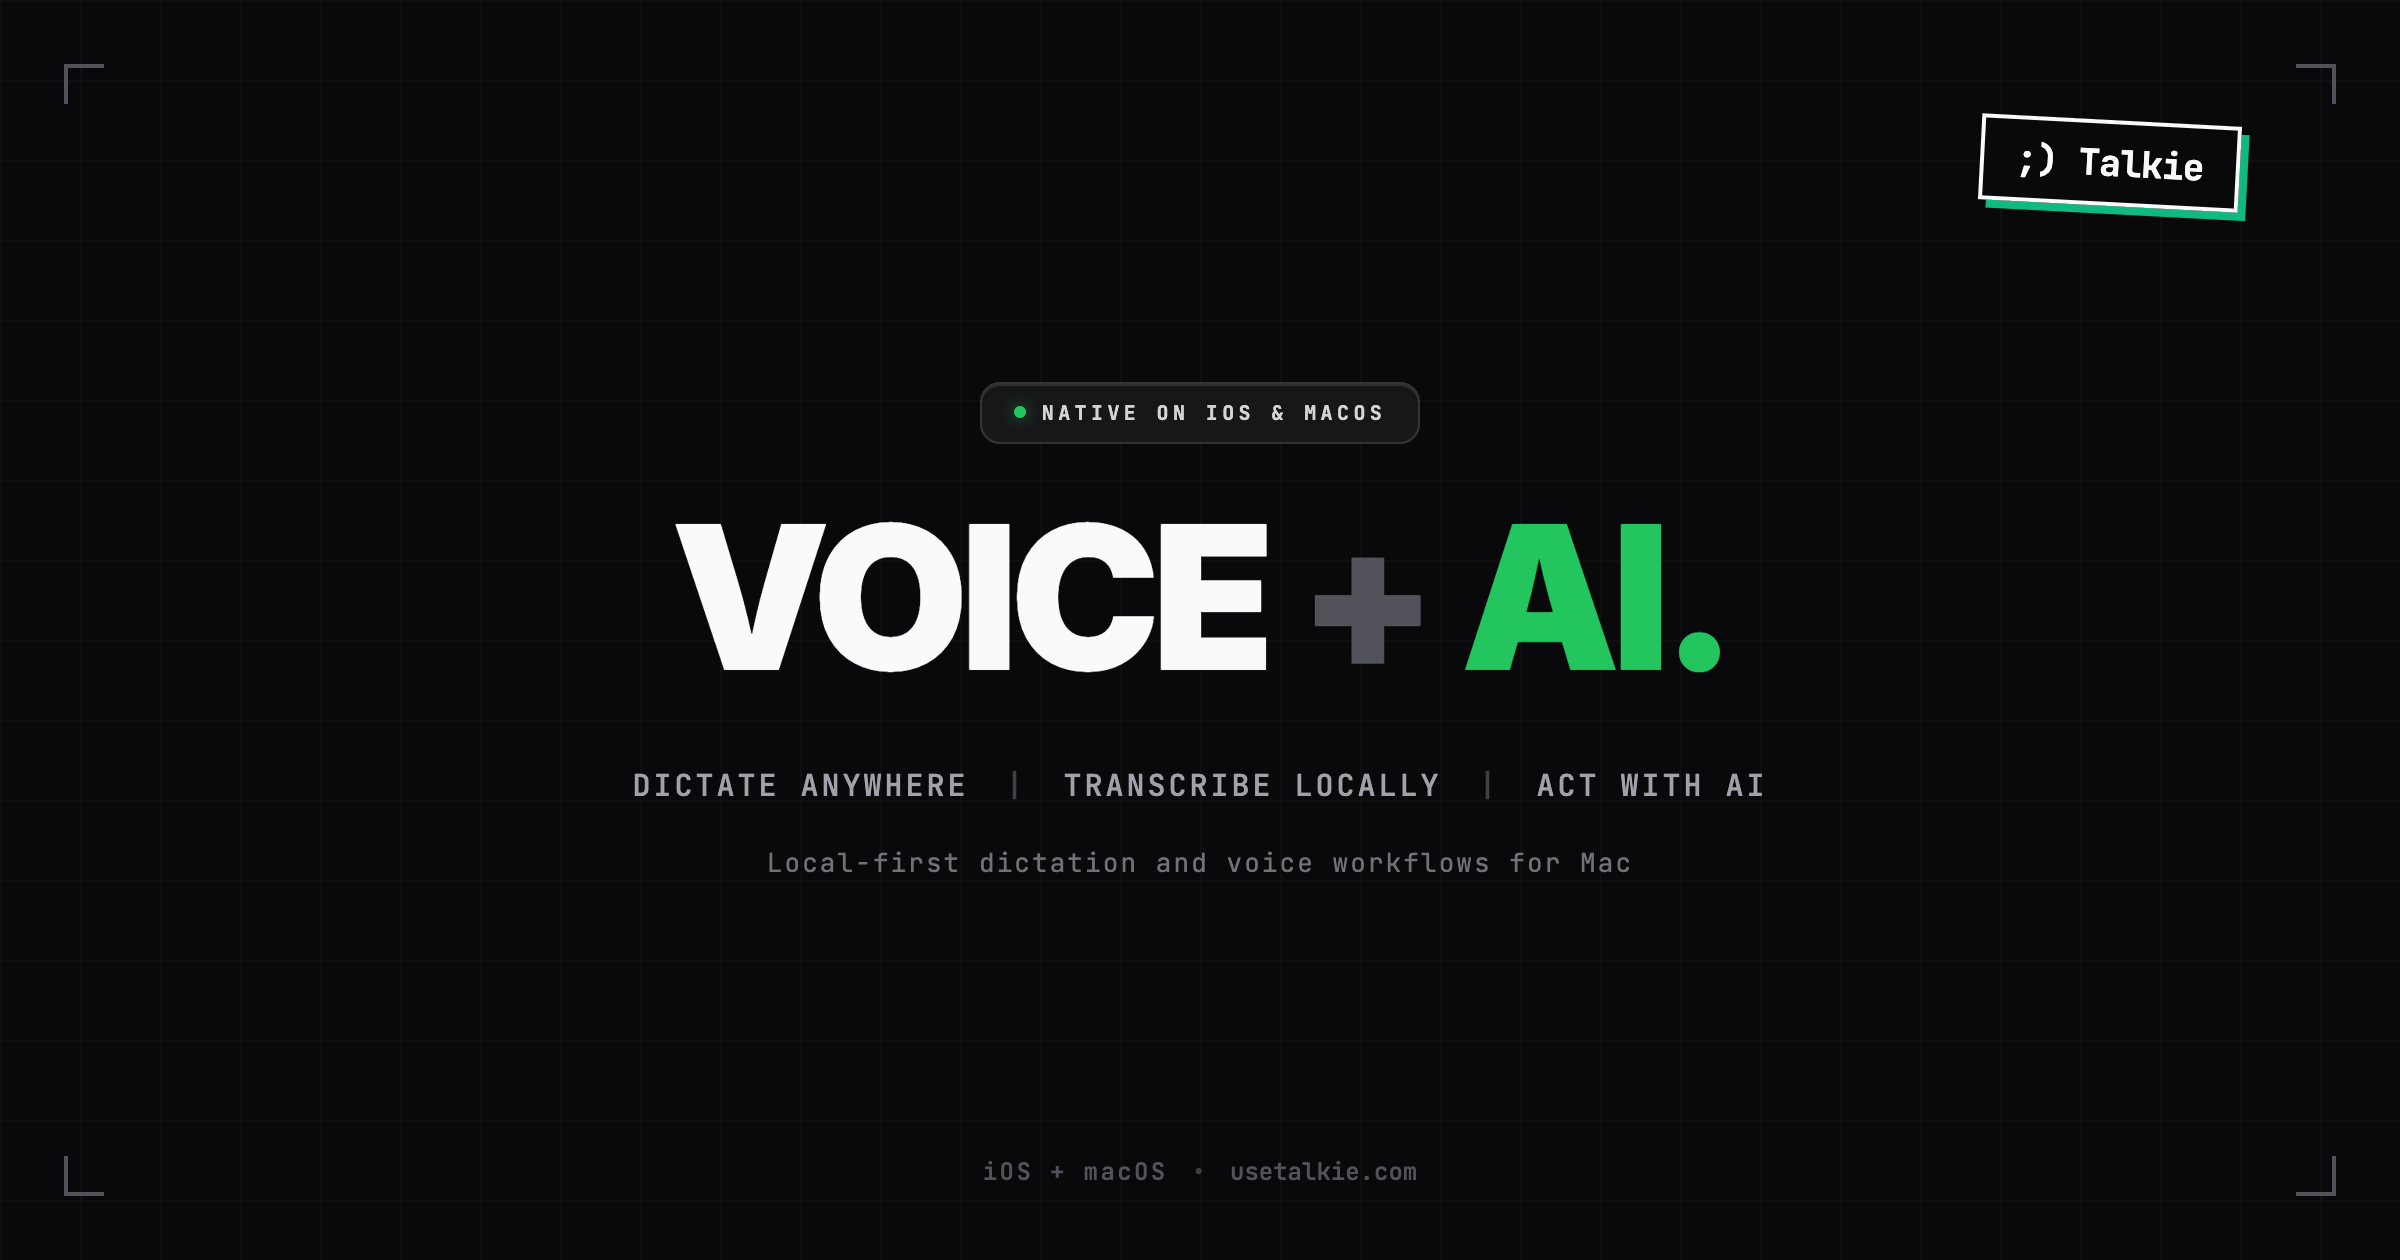
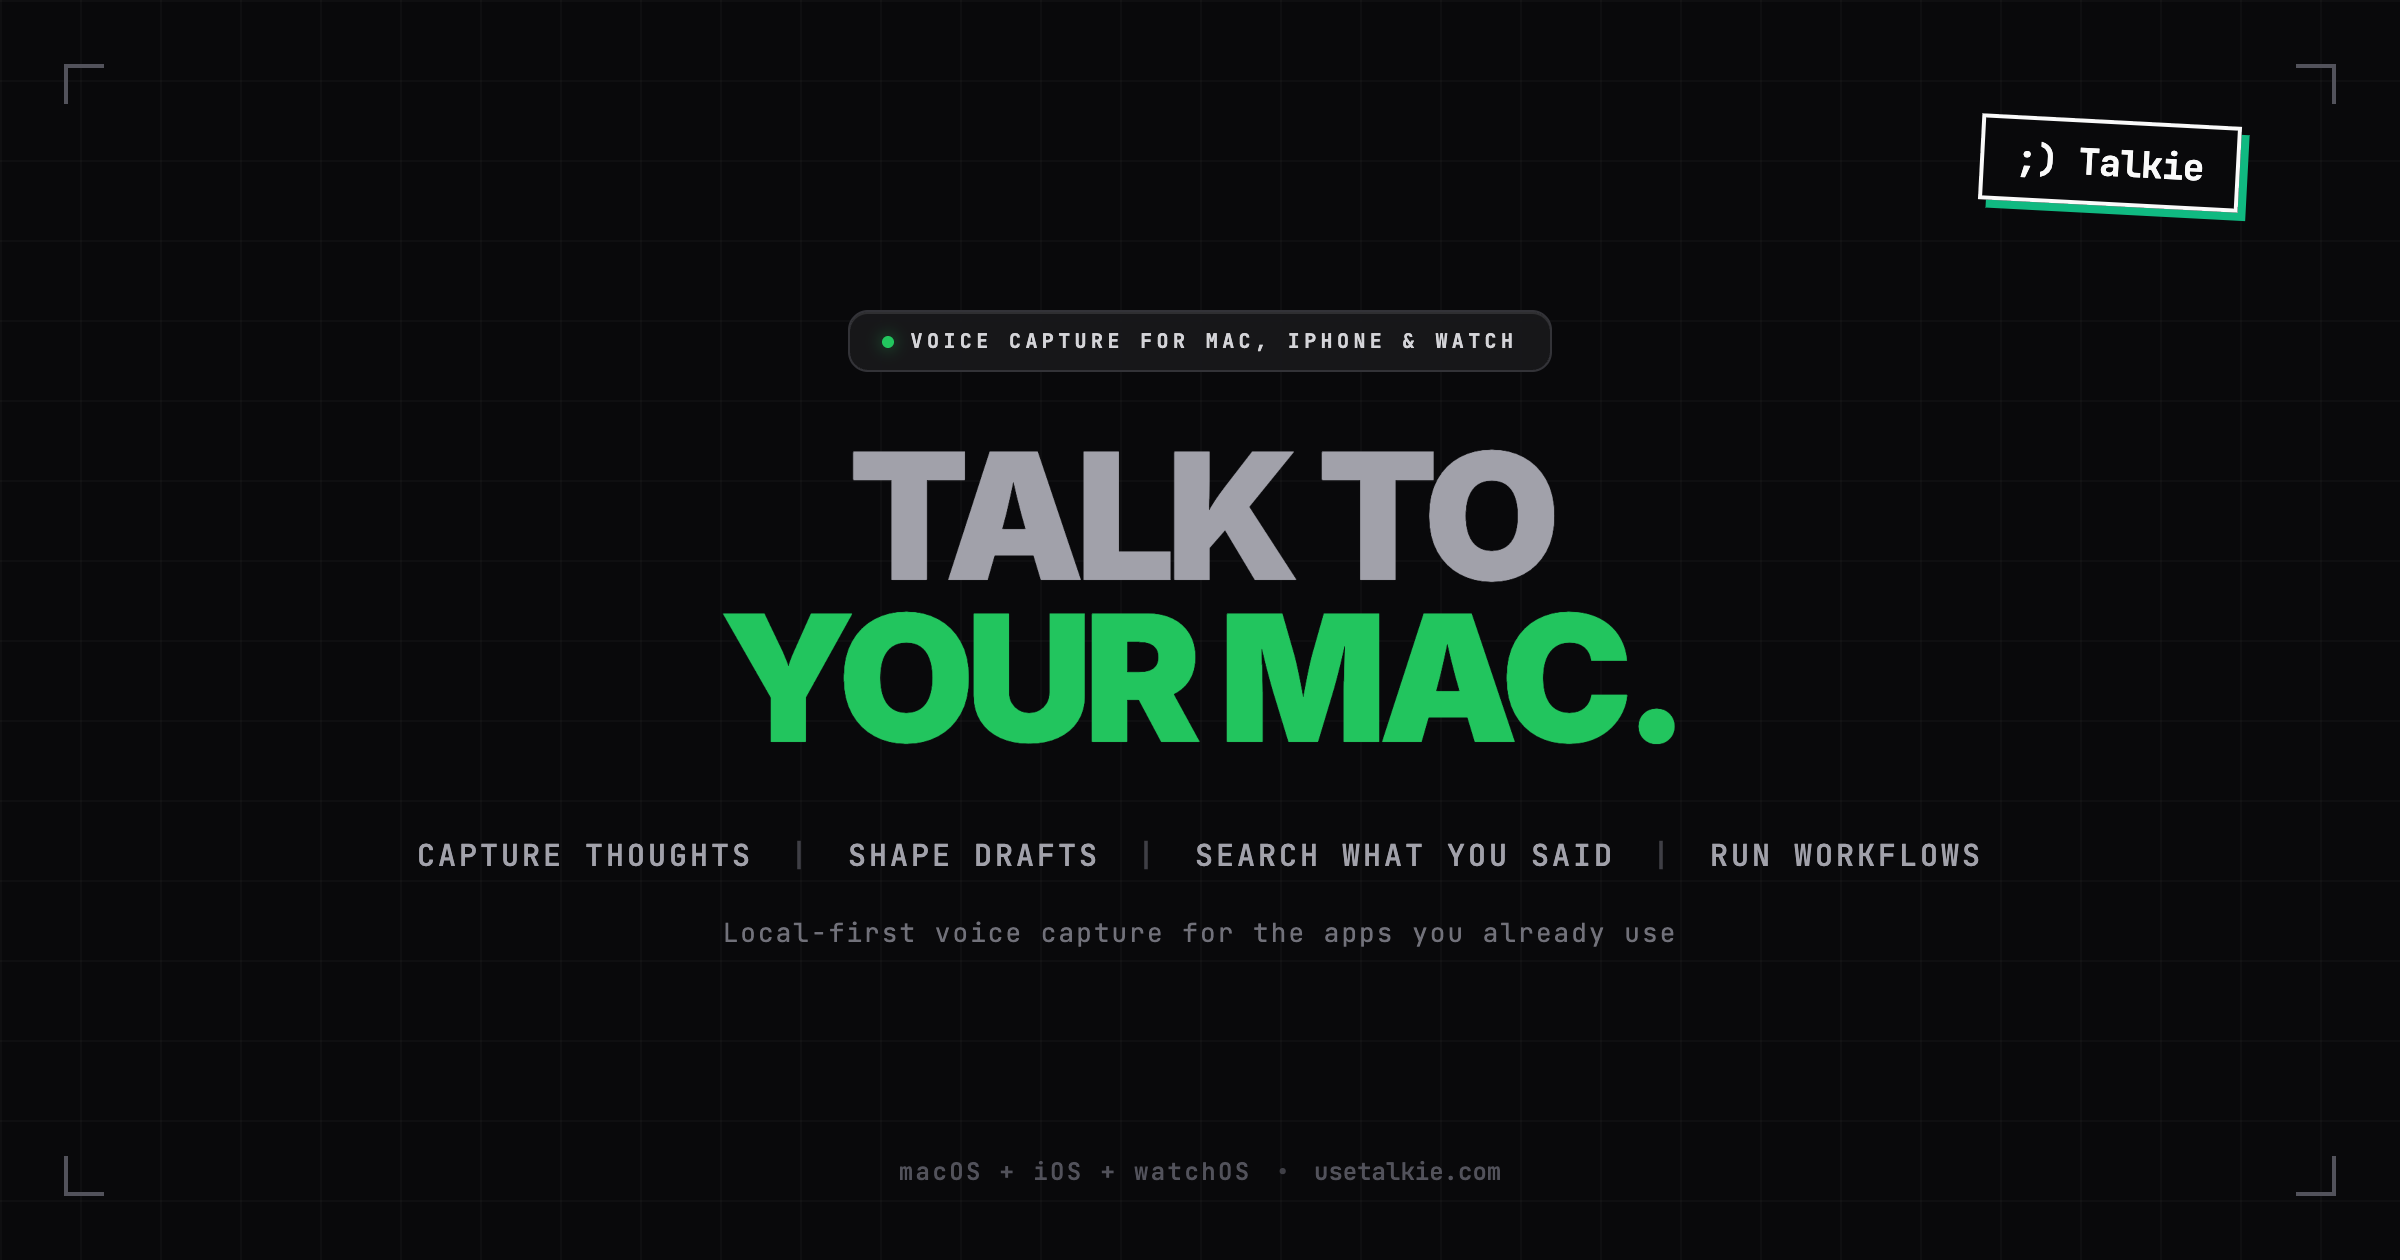
🎨 Refresh Talkie share copy

diff --git a/scripts/generate-og-image.js b/scripts/generate-og-image.js
@@ -5,6 +5,19 @@ import { fileURLToPath } from 'url';
 
 const __dirname = path.dirname(fileURLToPath(import.meta.url));
 
+function resolveBrowserLaunchOptions() {
+  const candidates = [
+    process.env.PUPPETEER_EXECUTABLE_PATH,
+    '/Applications/Google Chrome.app/Contents/MacOS/Google Chrome',
+    '/Applications/Chromium.app/Contents/MacOS/Chromium',
+    '/Applications/Microsoft Edge.app/Contents/MacOS/Microsoft Edge',
+    '/Applications/Brave Browser.app/Contents/MacOS/Brave Browser',
+  ].filter(Boolean);
+
+  const executablePath = candidates.find((candidate) => fs.existsSync(candidate));
+  return executablePath ? { executablePath } : {};
+}
+
 const html = `
 <!DOCTYPE html>
 <html>
@@ -78,17 +91,17 @@ const html = `
       text-transform: uppercase;
     }
     h1 {
-      font-size: 100px;
+      font-size: 88px;
       font-weight: 900;
       color: #fafafa;
-      letter-spacing: -0.04em;
+      letter-spacing: -0.05em;
       text-transform: uppercase;
-      line-height: 0.9;
+      line-height: 0.92;
     }
-    h1 .plus {
-      color: #52525b;
+    h1 .muted {
+      color: #a1a1aa;
     }
-    h1 .ai {
+    h1 .accent {
       color: #22c55e;
     }
     .tagline {
@@ -97,8 +110,8 @@ const html = `
       margin-top: 36px;
       font-family: 'JetBrains Mono', monospace;
       font-weight: 500;
-      max-width: 900px;
-      line-height: 1.8;
+      max-width: 960px;
+      line-height: 1.7;
       text-transform: uppercase;
       letter-spacing: 0.1em;
     }
@@ -172,14 +185,14 @@ const html = `
     <div class="content">
       <div class="hero-badge">
         <div class="hero-badge-dot"></div>
-        <span class="hero-badge-text">Native on iOS & macOS</span>
+        <span class="hero-badge-text">Voice capture for Mac, iPhone & Watch</span>
       </div>
-      <h1>VOICE <span class="plus">+</span> <span class="ai">AI.</span></h1>
-      <p class="tagline">Dictate anywhere <span class="sep">|</span> Transcribe locally <span class="sep">|</span> Act with AI</p>
-      <p class="tagline-sub">Local-first dictation and voice workflows for Mac</p>
+      <h1><span class="muted">Talk to</span><br><span class="accent">your Mac.</span></h1>
+      <p class="tagline">Capture thoughts <span class="sep">|</span> Shape drafts <span class="sep">|</span> Search what you said <span class="sep">|</span> Run workflows</p>
+      <p class="tagline-sub">Local-first voice capture for the apps you already use</p>
     </div>
     <div class="bottom">
-      <span style="letter-spacing: 0.1em;">iOS + macOS</span>
+      <span style="letter-spacing: 0.1em;">macOS + iOS + watchOS</span>
       <span class="sep">•</span>
       <span>usetalkie.com</span>
     </div>
@@ -189,7 +202,7 @@ const html = `
 `;
 
 (async () => {
-  const browser = await puppeteer.launch();
+  const browser = await puppeteer.launch(resolveBrowserLaunchOptions());
   const page = await browser.newPage();
   await page.setViewport({ width: 1200, height: 630, deviceScaleFactor: 2 });
   await page.setContent(html, { waitUntil: 'networkidle0' });

diff --git a/components/home/HomePage.jsx b/components/home/HomePage.jsx
@@ -214,18 +214,6 @@ export default function HomePage() {
               headline. */}
           <PanoramicHero />
 
-          {/* Brand callback — the "selfie / brain" line
-              moves here as a small italic signoff, so it lands as a
-              memorable closer instead of competing with "Talk to your
-              {device}" for the lead. */}
-          {/* Brand callback — desktop only here. On mobile, the same
-              line is hoisted to a mid-page divider section between
-              Recovery Flow and Ownership for thematic punctuation. */}
-          <p className="mt-10 hidden text-center font-display text-[clamp(1rem,1.5vw,1.25rem)] italic leading-relaxed text-ink-dim md:mt-14 md:block">
-            <span aria-hidden className="mr-3 inline-block align-middle text-ink-faint not-italic">·</span>
-            A selfie. For your brain.
-            <span aria-hidden className="ml-3 inline-block align-middle text-ink-faint not-italic">·</span>
-          </p>
         </div>
       </section>
 
@@ -475,20 +463,6 @@ export default function HomePage() {
             ))}
           </div>
         </div>
-      </section>
-
-      {/* ========== BRAND CALLBACK · MOBILE DIVIDER ==========
-          Mid-page poetic break on phone only. Desktop keeps the
-          callback inline at the end of the hero section per the
-          original composition; on mobile we hoist it down here so
-          it works as a chapter divider between operational
-          (Recovery Flow) and trust (Ownership) themes. */}
-      <section className="border-y border-edge-faint bg-canvas py-14 md:hidden">
-        <p className="mx-auto max-w-md px-4 text-center font-display text-2xl italic leading-snug text-ink-dim">
-          <span aria-hidden className="mr-3 inline-block align-middle text-ink-faint not-italic">·</span>
-          A selfie. For your brain.
-          <span aria-hidden className="ml-3 inline-block align-middle text-ink-faint not-italic">·</span>
-        </p>
       </section>
 
       {/* ========== OWNERSHIP / ARCHITECTURE ========== */}

diff --git a/app/page.jsx b/app/page.jsx
@@ -1,6 +1,10 @@
 import HomePage from '../components/home/HomePage'
 import MainShell from '../components/MainShell'
 
+const HOME_TITLE = 'Talkie - Talk to your Mac'
+const HOME_DESCRIPTION =
+  'Capture a thought, shape a draft, search what you said, or kick off a workflow. A mic is all you need.'
+
 /**
  * Root homepage `/` — renders the panoramic-instrument hero with the
  * shared site chrome via MainShell. The donor `LandingPage.jsx` is
@@ -8,14 +12,12 @@ import MainShell from '../components/MainShell'
  * route.
  */
 export const metadata = {
-  title: 'Talkie - A selfie. For your brain.',
-  description:
-    'A selfie. For your brain. Talk, and the work starts moving.',
+  title: HOME_TITLE,
+  description: HOME_DESCRIPTION,
   applicationName: 'Talkie',
   openGraph: {
-    title: 'Talkie - A selfie. For your brain.',
-    description:
-      'A selfie. For your brain. Talk, and the work starts moving.',
+    title: HOME_TITLE,
+    description: HOME_DESCRIPTION,
     url: 'https://usetalkie.com',
     siteName: 'Talkie',
     locale: 'en_US',
@@ -25,15 +27,14 @@ export const metadata = {
         url: '/og-image.png',
         width: 1200,
         height: 630,
-        alt: 'Talkie - A selfie. For your brain.',
+        alt: HOME_TITLE,
       },
     ],
   },
   twitter: {
     card: 'summary_large_image',
-    title: 'Talkie - A selfie. For your brain.',
-    description:
-      'A selfie. For your brain. Talk, and the work starts moving.',
+    title: HOME_TITLE,
+    description: HOME_DESCRIPTION,
     images: ['/og-image.png'],
   },
 }

diff --git a/components/AboutPage.jsx b/components/AboutPage.jsx
@@ -305,7 +305,7 @@ export default function AboutPage() {
                   · THIS IS TALKIE
                 </p>
                 <h3 className="mt-3 font-display text-2xl font-normal leading-[1.1] tracking-[-0.01em] text-ink">
-                  A selfie. For your thoughts.<br />
+                  Talk to your Mac.<br />
                   <span className="text-base italic text-ink-muted md:text-lg">{supportingLine(TAGLINE_ABOUT)}</span>
                 </h3>
                 <p className="mt-3 text-[13px] leading-relaxed text-ink-muted transition-colors duration-200 group-hover:text-ink-dim">

diff --git a/components/BrandPage.jsx b/components/BrandPage.jsx
@@ -65,7 +65,7 @@ const TOKENS = [
 ]
 
 const VOICE_LINES = [
-  { kind: 'anchor', text: "It's like a selfie. For your thoughts." },
+  { kind: 'anchor', text: 'Talk to your Mac.' },
   { kind: 'supporting', text: 'A mic is all you need.' },
   { kind: 'supporting', text: 'Voice-first AI. Yours.' },
   { kind: 'supporting', text: 'Local-first. Auditable signal path.' },

diff --git a/components/HomePage.jsx b/components/HomePage.jsx
@@ -191,7 +191,7 @@ export default function HomePage() {
 
           {/* Headline */}
           <h1 className="mt-8 font-display text-5xl font-normal leading-[1.02] tracking-[-0.02em] text-ink md:text-7xl">
-            A selfie. For your thoughts.
+            Talk to your Mac.
             <br />
             <RotatingTagline
               className="mt-2 inline-block text-3xl italic leading-tight text-ink-muted md:text-5xl"

diff --git a/components/SiteShell.jsx b/components/SiteShell.jsx
@@ -110,7 +110,7 @@ export default function SiteShell({ children }) {
             <div className="max-w-sm">
               <Wordmark size={48} state="listening" pulse />
               <p className="mt-5 font-display text-2xl leading-tight tracking-[-0.01em] text-ink">
-                It's like a selfie. For your thoughts.
+                Talk to your Mac.
                 <br />
                 <span className="text-base italic text-ink-muted">{supportingLine(ANCHOR_VARIANT)}</span>
               </p>